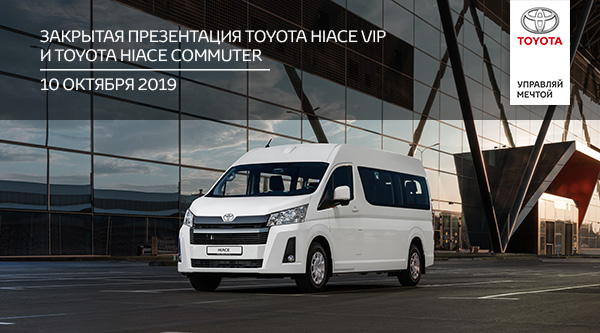
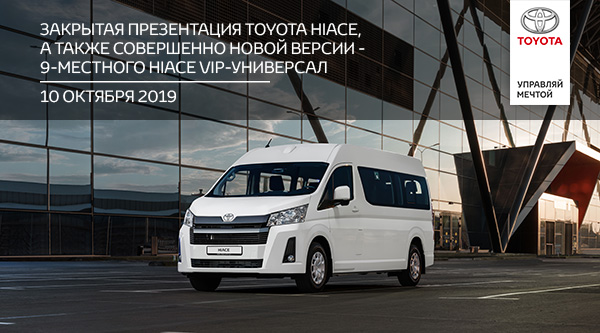
fixes

Changed region(s): [[0.06, 0.0601, 0.66, 0.3303]]

diff --git a/dist/index.html b/dist/index.html
@@ -52,8 +52,8 @@
               <table cellpadding="0" cellspacing="0" width="100%" role="presentation">
                 <tr>
                   <td class="content" style="padding:36px 40px 25px 40px;border-bottom:1px solid #CCCCCC">
-                    <p style="margin:0 0 16px 0"><strong style="font-family:'Toyota Display','Myriad Pro','Segoe UI',Roboto,Helvetica,Arial,sans-serif;font-weight:bold">Приглашаем вас посетить закрытую презентацию нового поколения<br>TOYOTA Hiace Vip и Commuter</strong></p>
-                    <p style="margin:0 0 16px 0">В&nbsp;ходе мероприятия вас погрузят в&nbsp;атмосферу японской культуры: виртуозные каскадёры продемонстрируют мастерство владения самурайским мечом, легенда дрифта Никита Шиков устроит показательный заезд на&nbsp;новой TOYOTA Supra, а&nbsp;после выступления прокатит каждого желающего на&nbsp;своём &laquo;боевом&raquo; автомобиле.</p>
+                    <p style="margin:0 0 16px 0"><strong style="font-family:'Toyota Display','Myriad Pro','Segoe UI',Roboto,Helvetica,Arial,sans-serif;font-weight:bold">Приглашаем вас посетить презентацию нового поколения TOYOTA Hiace, а&nbsp;также, впервые в&nbsp;истории, помимо вместительной 13-местной версии Toyota Hiace, будет представлен 9-местный Hiace VIP-универсал.</strong></p>
+                    <p style="margin:0 0 16px 0">В&nbsp;ходе мероприятия вас погрузят в&nbsp;атмосферу японской культуры: виртуозные музыканты устроят шоу японских барабанщиков, легенда дрифта Никита Шиков устроит показательный заезд на&nbsp;новой TOYOTA Supra, а&nbsp;после выступления прокатит каждого желающего на&nbsp;своём &laquo;боевом&raquo; автомобиле.</p>
                     <p style="margin:0">На&nbsp;мероприятии вы&nbsp;сможете пройти тест-драйв на&nbsp;TOYOTA Corolla, TOYOTA Alphard, Lexus LC500, Lexus UX&nbsp;и&nbsp;Lexus ES350.</p>
                   </td>
                 </tr>
@@ -87,14 +87,14 @@
                     <table cellpadding="0" cellspacing="0" width="100%" role="presentation">
                       <tr>
                         <td valign="top" width="81" style="padding:0 5px 5px 0;white-space:nowrap">14:00–15:00</td>
-                        <td valign="top" style="padding:0 0 5px 0">Сбор участников, регистрация, фуршет</td>
+                        <td valign="top" style="padding:0 0 5px 0">Welcome фуршет</td>
                       </tr>
                       <tr>
                         <td valign="top" width="81" style="padding:0 5px 5px 0;white-space:nowrap">15:00–16:00</td>
-                        <td valign="top" style="padding:0 0 5px 0">Презентация TOYOTA Hiace Vip и&nbsp;Commuter</td>
+                        <td valign="top" style="padding:0 0 5px 0">Презентация нового поколения Toyota Hiace</td>
                       <tr>
                         <td valign="top" width="81" style="padding:0 5px 5px 0;white-space:nowrap">16:00–18:00</td>
-                        <td valign="top" style="padding:0 0 5px 0">Тест-драйв, дрифт-шоу, развлекательная часть</td>
+                        <td valign="top" style="padding:0 0 5px 0">Тест-драйв и&nbsp;развлекательная часть</td>
                       <tr>
                         <td valign="top" width="81" style="padding:0 5px 5px 0;white-space:nowrap">18:00–20:00</td>
                         <td valign="top" style="padding:0 0 5px 0">Ужин</td>
@@ -104,7 +104,7 @@
                 </tr>
                 <tr>
                   <td class="content" style="padding:22px 40px 22px 40px;border-bottom:1px solid #CCCCCC">
-                    <p style="margin:0 0 13px 0">Вы&nbsp;можете приехать на&nbsp;мероприятие самостоятельно или воспользоваться индивидуальным трансфером от&nbsp;метро Речной вокзал.</p>
+                    <p style="margin:0 0 13px 0">Вы&nbsp;можете приехать на&nbsp;мероприятие самостоятельно или воспользоваться индивидуальным трансфером от&nbsp;метро «Речной вокзал».</p>
                     <table cellpadding="0" cellspacing="0" width="100%" role="presentation">
                       <tr>
                         <td width="72" style="padding:0 0 12px 0">

diff --git a/src/index.html b/src/index.html
@@ -52,8 +52,8 @@
               <table cellpadding="0" cellspacing="0" width="100%" role="presentation">
                 <tr>
                   <td class="content" style="padding:36px 40px 25px 40px;border-bottom:1px solid #CCCCCC">
-                    <p style="margin:0 0 16px 0"><strong style="font-family:'Toyota Display','Myriad Pro','Segoe UI',Roboto,Helvetica,Arial,sans-serif;font-weight:bold">Приглашаем вас посетить закрытую презентацию нового поколения<br>TOYOTA Hiace Vip и Commuter</strong></p>
-                    <p style="margin:0 0 16px 0">В&nbsp;ходе мероприятия вас погрузят в&nbsp;атмосферу японской культуры: виртуозные каскадёры продемонстрируют мастерство владения самурайским мечом, легенда дрифта Никита Шиков устроит показательный заезд на&nbsp;новой TOYOTA Supra, а&nbsp;после выступления прокатит каждого желающего на&nbsp;своём &laquo;боевом&raquo; автомобиле.</p>
+                    <p style="margin:0 0 16px 0"><strong style="font-family:'Toyota Display','Myriad Pro','Segoe UI',Roboto,Helvetica,Arial,sans-serif;font-weight:bold">Приглашаем вас посетить презентацию нового поколения TOYOTA Hiace, а&nbsp;также, впервые в&nbsp;истории, помимо вместительной 13-местной версии Toyota Hiace, будет представлен 9-местный Hiace VIP-универсал.</strong></p>
+                    <p style="margin:0 0 16px 0">В&nbsp;ходе мероприятия вас погрузят в&nbsp;атмосферу японской культуры: виртуозные музыканты устроят шоу японских барабанщиков, легенда дрифта Никита Шиков устроит показательный заезд на&nbsp;новой TOYOTA Supra, а&nbsp;после выступления прокатит каждого желающего на&nbsp;своём &laquo;боевом&raquo; автомобиле.</p>
                     <p style="margin:0">На&nbsp;мероприятии вы&nbsp;сможете пройти тест-драйв на&nbsp;TOYOTA Corolla, TOYOTA Alphard, Lexus LC500, Lexus UX&nbsp;и&nbsp;Lexus ES350.</p>
                   </td>
                 </tr>
@@ -87,14 +87,14 @@
                     <table cellpadding="0" cellspacing="0" width="100%" role="presentation">
                       <tr>
                         <td valign="top" width="81" style="padding:0 5px 5px 0;white-space:nowrap">14:00–15:00</td>
-                        <td valign="top" style="padding:0 0 5px 0">Сбор участников, регистрация, фуршет</td>
+                        <td valign="top" style="padding:0 0 5px 0">Welcome фуршет</td>
                       </tr>
                       <tr>
                         <td valign="top" width="81" style="padding:0 5px 5px 0;white-space:nowrap">15:00–16:00</td>
-                        <td valign="top" style="padding:0 0 5px 0">Презентация TOYOTA Hiace Vip и&nbsp;Commuter</td>
+                        <td valign="top" style="padding:0 0 5px 0">Презентация нового поколения Toyota Hiace</td>
                       <tr>
                         <td valign="top" width="81" style="padding:0 5px 5px 0;white-space:nowrap">16:00–18:00</td>
-                        <td valign="top" style="padding:0 0 5px 0">Тест-драйв, дрифт-шоу, развлекательная часть</td>
+                        <td valign="top" style="padding:0 0 5px 0">Тест-драйв и&nbsp;развлекательная часть</td>
                       <tr>
                         <td valign="top" width="81" style="padding:0 5px 5px 0;white-space:nowrap">18:00–20:00</td>
                         <td valign="top" style="padding:0 0 5px 0">Ужин</td>
@@ -104,7 +104,7 @@
                 </tr>
                 <tr>
                   <td class="content" style="padding:22px 40px 22px 40px;border-bottom:1px solid #CCCCCC">
-                    <p style="margin:0 0 13px 0">Вы&nbsp;можете приехать на&nbsp;мероприятие самостоятельно или воспользоваться индивидуальным трансфером от&nbsp;метро Речной вокзал.</p>
+                    <p style="margin:0 0 13px 0">Вы&nbsp;можете приехать на&nbsp;мероприятие самостоятельно или воспользоваться индивидуальным трансфером от&nbsp;метро «Речной вокзал».</p>
                     <table cellpadding="0" cellspacing="0" width="100%" role="presentation">
                       <tr>
                         <td width="72" style="padding:0 0 12px 0">
